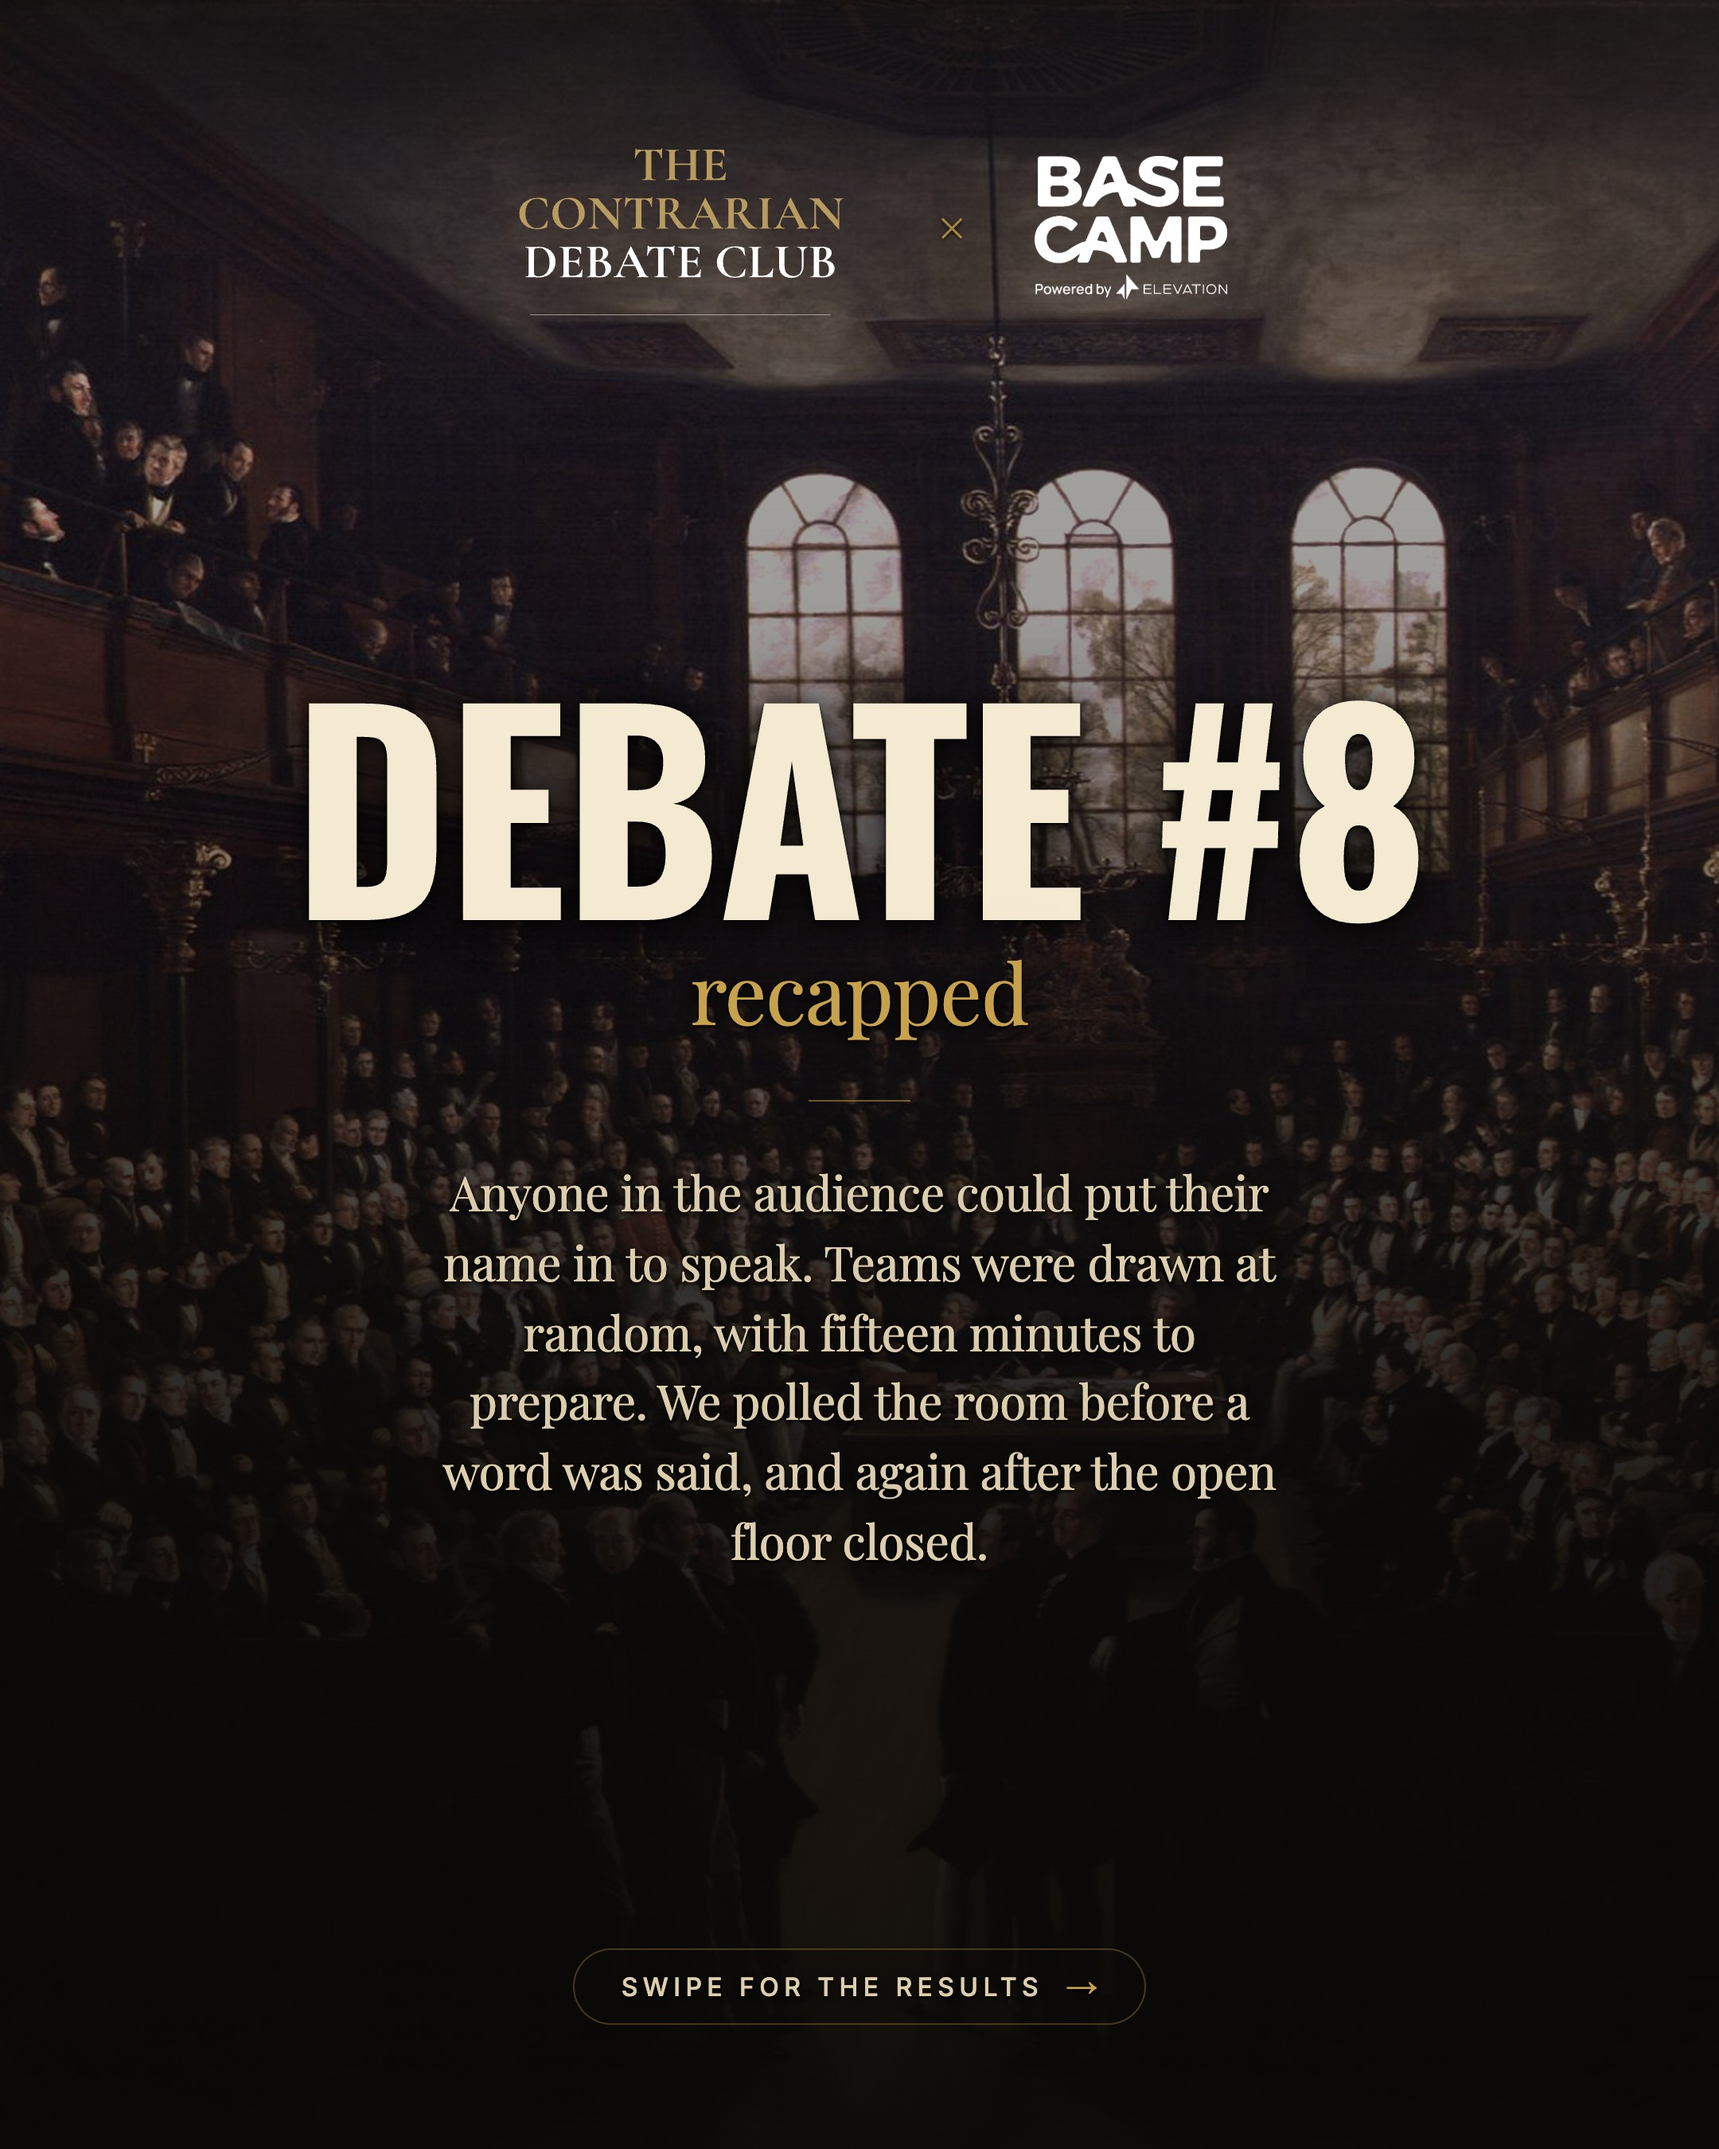
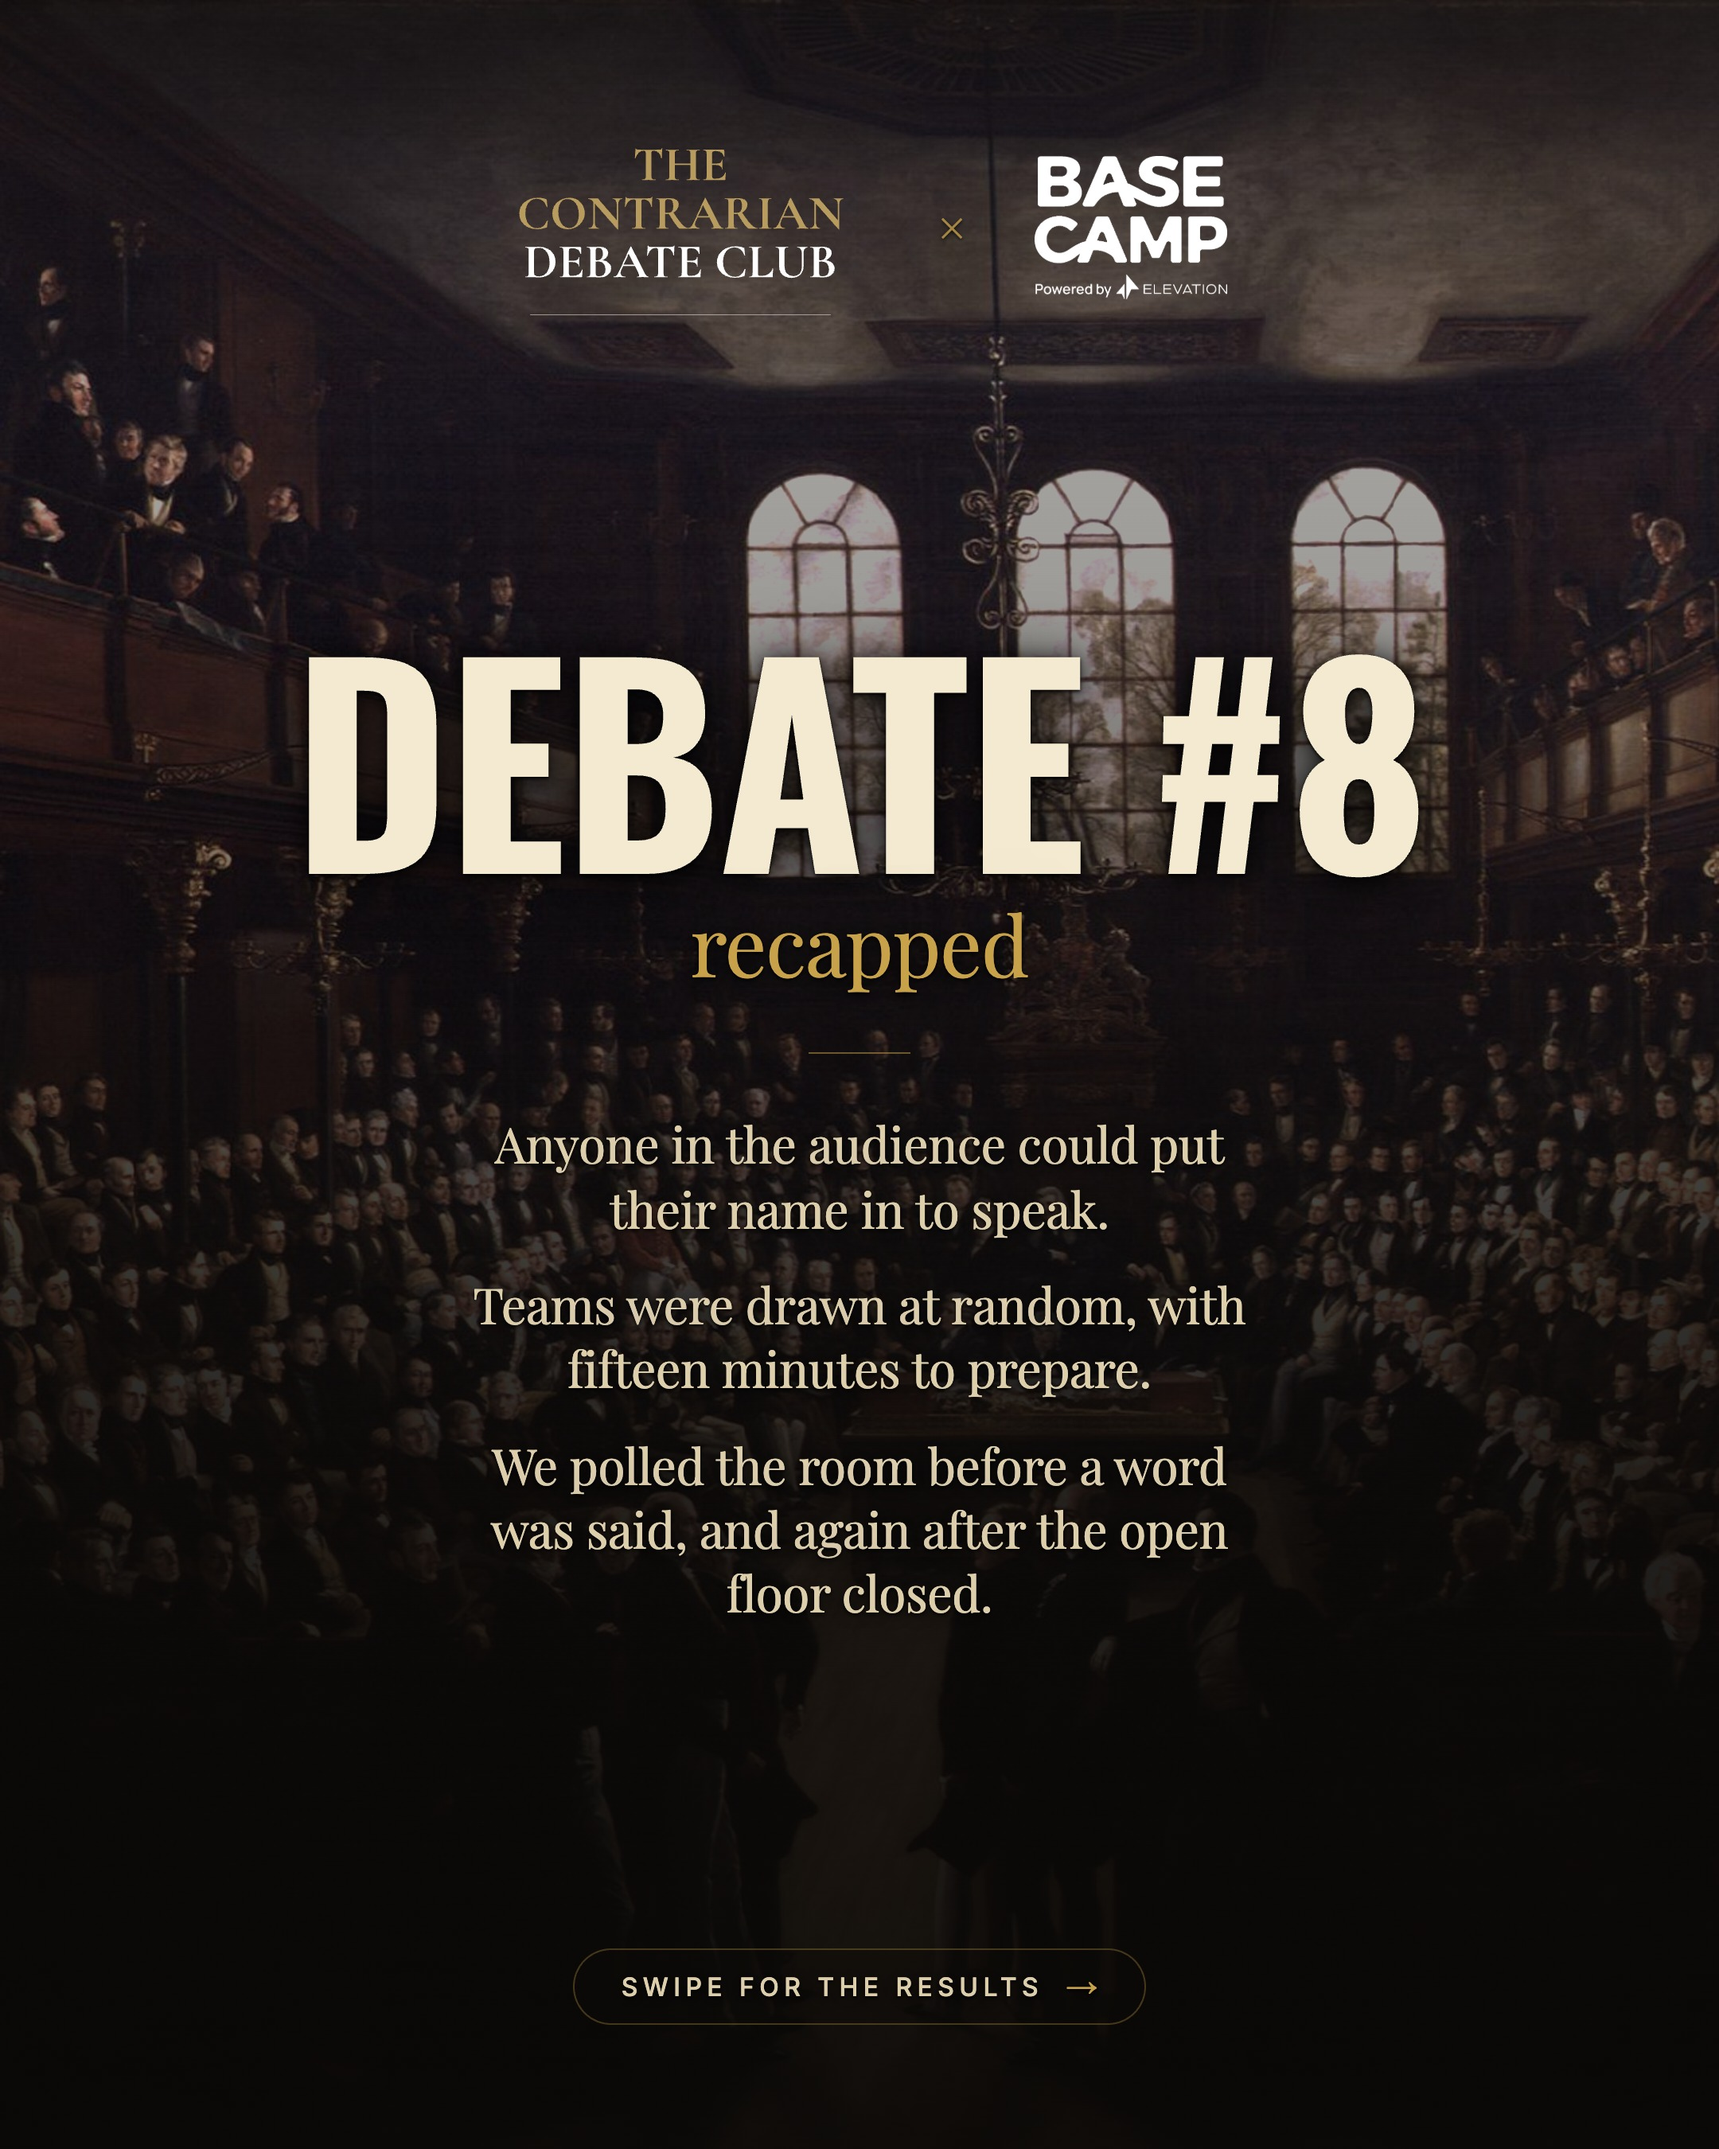
style: set the cover context as three lines, not a paragraph
Three facts in one justified serif block read as something to get through
rather than as three facts.

Changed region(s): [[0.1551, 0.28, 0.8375, 0.4978], [0.2792, 0.5289, 0.7444, 0.7467]]

diff --git a/posters/works/2026-08-09-debate-8-recap/slides.tsx b/posters/works/2026-08-09-debate-8-recap/slides.tsx
@@ -136,11 +136,13 @@ export function Cover({
   partner: string;
   title: string;
   subtitle: string;
-  /** how the night ran. It sits here rather than on the first motion slide,
-   *  because a cover that only names itself gives a scroller no reason to
-   *  stop, and because these mechanics belong to the whole evening rather
-   *  than to one motion. */
-  context: string;
+  /** how the night ran, one beat per line. It sits here rather than on the
+   *  first motion slide, because a cover that only names itself gives a
+   *  scroller no reason to stop, and because these mechanics belong to the
+   *  whole evening rather than to one motion. Set as separate lines, not a
+   *  paragraph: three facts in a block of justified serif read as something
+   *  to get through rather than three facts. */
+  context: string[];
   swipeHint: string;
 }) {
   return (
@@ -208,19 +210,24 @@ export function Cover({
             }}
           />
 
-          <p
-            style={{
-              fontFamily: "var(--cc-font-display)",
-              fontSize: 30,
-              lineHeight: 1.46,
-              letterSpacing: "-0.006em",
-              color: "var(--cc-parchment)",
-              margin: "0 auto",
-              maxWidth: "30ch",
-            }}
-          >
-            {context}
-          </p>
+          <div style={{ display: "flex", flexDirection: "column", alignItems: "center", gap: 20 }}>
+            {context.map((line, i) => (
+              <p
+                key={i}
+                style={{
+                  fontFamily: "var(--cc-font-display)",
+                  fontSize: 31,
+                  lineHeight: 1.3,
+                  letterSpacing: "-0.006em",
+                  color: "var(--cc-parchment)",
+                  margin: 0,
+                  maxWidth: "27ch",
+                }}
+              >
+                {line}
+              </p>
+            ))}
+          </div>
         </div>
 
         <span

diff --git a/posters/works/2026-08-09-debate-8-recap/spec.tsx b/posters/works/2026-08-09-debate-8-recap/spec.tsx
@@ -50,7 +50,11 @@ const work: WorkSpec = {
           partner={basecamp}
           title="Debate #8"
           subtitle="recapped"
-          context="Anyone in the audience could put their name in to speak. Teams were drawn at random, with fifteen minutes to prepare. We polled the room before a word was said, and again after the open floor closed."
+          context={[
+            "Anyone in the audience could put their name in to speak.",
+            "Teams were drawn at random, with fifteen minutes to prepare.",
+            "We polled the room before a word was said, and again after the open floor closed.",
+          ]}
           swipeHint="Swipe for the results"
         />
       ),
